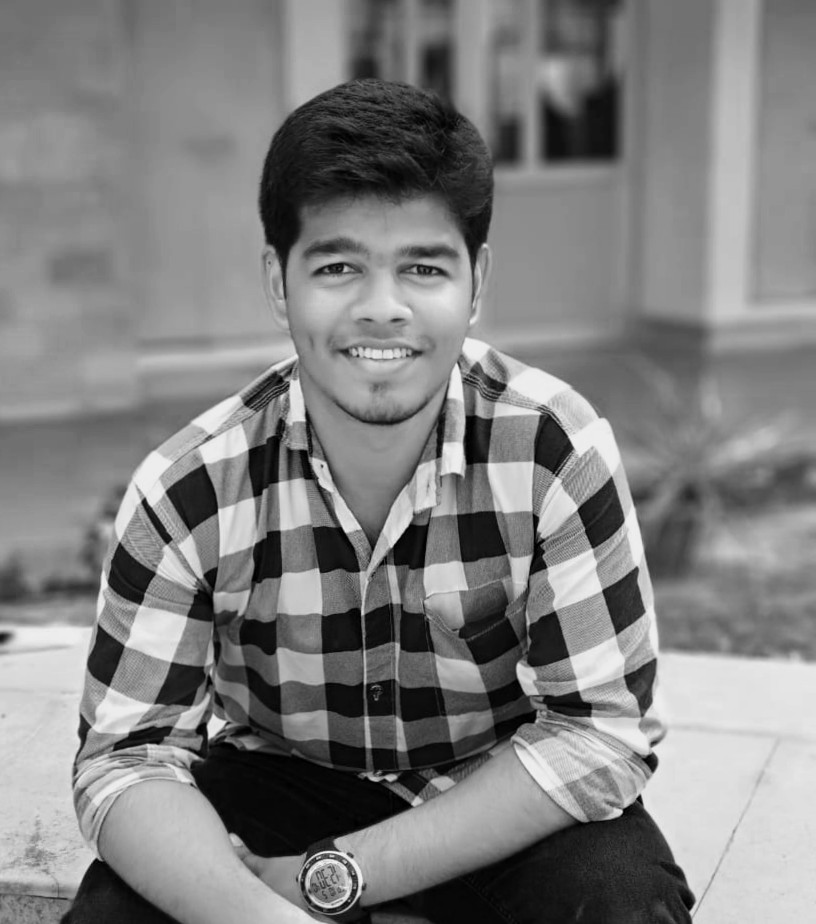
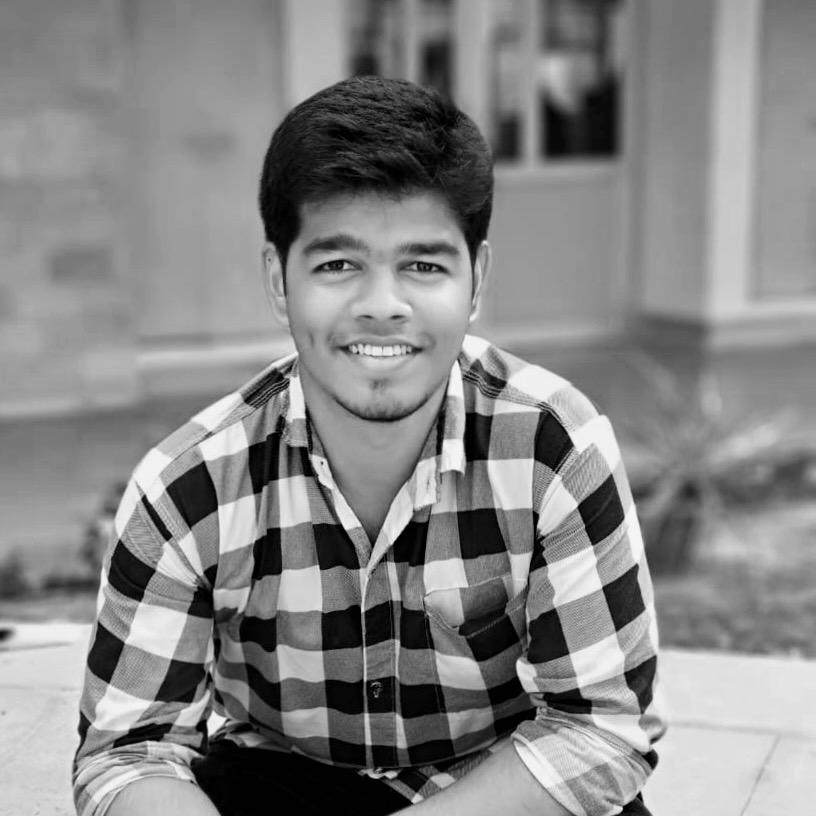
Updated a few mentor images 🚀

diff --git a/pages/speakers.js b/pages/speakers.js
@@ -72,13 +72,16 @@ const Speakers = () => {
                 </div>
               </div>
             </section>
-            <section className="small-space speaker-card-detail bg-light">
+            <section
+              id="speaker2"
+              className="small-space speaker-card-detail bg-light"
+            >
               <div className="speaker-cards-detail">
                 <div className="speaker-card__single-detail">
                   <div className="speaker-img">
                     <Image
                       quality={100}
-                      src="/img/speaker-01.jpg"
+                      src="/img/speaker-02.jpg"
                       width={220}
                       height={220}
                       alt="speaker"
@@ -117,13 +120,16 @@ const Speakers = () => {
                 </div>
               </div>
             </section>
-            <section className="small-space speaker-card-detail bg-light">
+            <section
+              id="speaker3"
+              className="small-space speaker-card-detail bg-light"
+            >
               <div className="speaker-cards-detail">
                 <div className="speaker-card__single-detail">
                   <div className="speaker-img">
                     <Image
                       quality={100}
-                      src="/img/speaker-01.jpg"
+                      src="/img/speaker-03.jpg"
                       width={220}
                       height={220}
                       alt="speaker"
@@ -162,13 +168,16 @@ const Speakers = () => {
                 </div>
               </div>
             </section>
-            <section className="small-space speaker-card-detail bg-light">
+            <section
+              id="speaker4"
+              className="small-space speaker-card-detail bg-light"
+            >
               <div className="speaker-cards-detail">
                 <div className="speaker-card__single-detail">
                   <div className="speaker-img">
                     <Image
                       quality={100}
-                      src="/img/speaker-01.jpg"
+                      src="/img/speaker-04.jpg"
                       width={220}
                       height={220}
                       alt="speaker"

diff --git a/components/Footer.js b/components/Footer.js
@@ -11,7 +11,7 @@ const Footer = () => {
               <a className="footer__logo">Da meet</a>
             </Link>
             <div className="footer__list">
-              <a className="" href="https://codegra.in/">
+              <a href="https://codegra.in/" target="_blank">
                 by codegra.in
               </a>
             </div>
